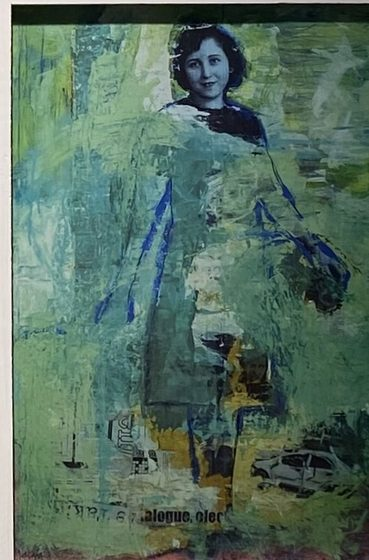
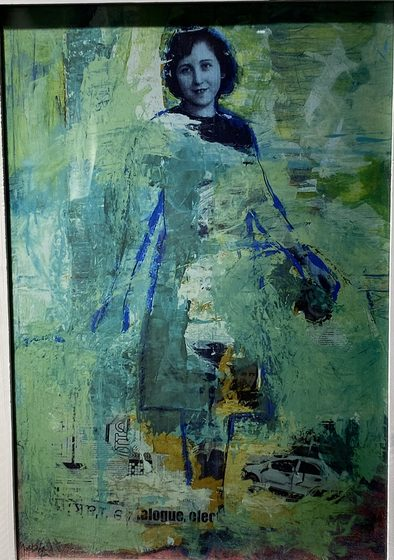
Memory: close-ups of Untitled Hypotheses; opening-night views

diff --git a/assets/works.js b/assets/works.js
@@ -49,9 +49,9 @@ window.WORKS = {
 ["Manar Magdy","Immersed in the depth of memory","50x70","2022","Digital illustration printed on wood","",[["memory--manar-magdy--immersed-in-the-depth-of-memory",1500,2100]]],
 ["Mayar Attia","Untitled","21x29.7","2021","Photograph taken on Olympus camera, Kodak ColorPlus 200","Edition 1/7",[["memory--mayar-attia--untitled-30-0",565,404]]],
 ["Mostafa Hedayat","Memorial spectrums","85x30","2022","Digital collage print","",[["memory--mostafa-hedayat--memorial-spectrums",1762,570]]],
-["Mostafa Hedayat","Untitled Hypotheses","26x37","2022","Digital collage print","One of a series of 3",[["memory--mostafa-hedayat--untitled-hypotheses-1",543,821]]],
-["Mostafa Hedayat","Untitled Hypotheses","26x37","2022","Digital collage print","One of a series of 3",[["memory--mostafa-hedayat--untitled-hypotheses-2",547,806]]],
-["Mostafa Hedayat","Untitled Hypotheses","26x37","2022","Digital collage print","One of a series of 3",[["memory--mostafa-hedayat--untitled-hypotheses-3",535,813]]],
+["Mostafa Hedayat","Untitled Hypotheses","26x37","2022","Digital collage print","One of a series of 3",[["memory--mostafa-hedayat--untitled-hypotheses-1",1300,1850]]],
+["Mostafa Hedayat","Untitled Hypotheses","26x37","2022","Digital collage print","One of a series of 3",[["memory--mostafa-hedayat--untitled-hypotheses-2",1300,1850]]],
+["Mostafa Hedayat","Untitled Hypotheses","26x37","2022","Digital collage print","One of a series of 3",[["memory--mostafa-hedayat--untitled-hypotheses-3",1300,1850]]],
 ["Nashwa Ata","Isolation","30x50","2021","Mixed media on paper","One of a series of 4",[["memory--nashwa-ata--isolaton-33-0",395,502]]],
 ["Nashwa Ata","Isolation","30x50","2021","Mixed media on paper","One of a series of 4",[["memory--nashwa-ata--isolaton-33-1",395,502]]],
 ["Nashwa Ata","Isolation","30x50","2021","Mixed media on paper","One of a series of 4",[["memory--nashwa-ata--isolaton-33-2",384,502]]],
@@ -733,7 +733,7 @@ window.BIOS = {
 
 window.PORTRAITS = {"Abanoub Adel":"abanoub-adel","Abdoul":"abdoul","Abeer Adel":"abeer-adel","Adham Aboudoma":"adham-aboudoma","Afraa Ahmed":"afraa-ahmed","Agnes Michalczyk":"agnes-michalczyk","Ahmed Jamal":"ahmed-jamal","Ahmed Nour":"ahmed-nour","Aisha Nour":"aisha-nour","Alaa Aboelhamd":"alaa-aboelhamd","Ali Esmat Metwaly":"ali-esmat-metwaly","Amani Moussa":"amani-moussa","Amany Isaac":"amany-isaac","Amina Ashour":"amina-ashour","Amira Khalil":"amira-khalil","Amr Qubtan":"amr-qubtan","Asmaa Habib":"asmaa-habib","Asmaa Samy":"asmaa-samy","Aya Elhussieny":"aya-elhussieny","Aya Gamil":"aya-gamil","Aya Salah":"aya-salah","Aya Senousy":"aya-senousy","Basmalah Walie":"basmalah-walie","Berry Raheem":"berry-raheem","Dalia Negm":"dalia-negm","Dina El Karimy":"dina-el-karimy","Doaa ElDemerdash":"doaa-eldemerdash","Ehab Farrag":"ehab-farrag","Eman Hussin":"eman-hussin","Eslam Saif El-Nasr":"eslam-saif-el-nasr","Esraa Hosny":"esraa-hosny","Esraa Mahran":"esraa-mahran","Fady George Awad":"fady-george-awad","Farah Elshebiny":"farah-elshebiny","Farida Mahdy":"farida-mahdy","Fathy Hassan":"fathy-hassan","Gabal":"gabal","Ganna Talaat":"ganna-talaat","Ghada Waleed":"ghada-waleed","Habiba Elgazzar":"habiba-elgazzar","Haidy Ghanem":"haidy-ghanem","Haidy Mohamed":"haidy-mohamed","Hala Abdelhamed":"hala-abdelhamed","Hazem Elshenawy":"hazem-elshenawy","Heba Tarek":"heba-tarek","Hoda Hisham":"hoda-hisham","Hossam AbulEla":"hossam-abulela","Injy Usama Kamal":"injy-usama-kamal","Joseph El Duwairy":"joseph-el-duwairy","Kamila Bassioni":"kamila-bassioni","Kenzy Turky":"kenzy-turky","Lana Gul":"lana-gul","Lina Eid":"lina-eid","Magy George":"magy-george","Maha Abdelghani":"maha-abdelghani","Mahitab Elshafie":"mahitab-elshafie","Mahmoud El Masry":"mahmoud-el-masry","Mahmoud Marey":"mahmoud-marey","Mahmoud Sami":"mahmoud-sami","Mai Manieh":"mai-manieh","Manar Magdy":"manar-magdy","Mariam Abdelhay":"mariam-abdelhay","Marwan Alaaeldin":"marwan-alaaeldin","Mayar Attia":"mayar-attia","MennaAllah Raafat":"mennaallah-raafat","Miriam Hanna":"miriam-hanna","Mirna Isac":"mirna-isac","Moamen Ghorab":"moamen-ghorab","Mohamed Abdelrahman":"mohamed-abdelrahman","Mohamed Almowafy":"mohamed-almowafy","Mohanad Youssef":"mohanad-youssef","Moheeb":"moheeb","Mostafa Hedayat":"mostafa-hedayat","Muhammed Sawan":"muhammed-sawan","Nada Darwish":"nada-darwish","Nada Hassanien":"nada-hassanien","Nada Nada":"nada-nada","Nagat Farouk":"nagat-farouk","Nashwa Ata":"nashwa-ata","Nayera Ahmed Fathy":"nayera-ahmed-fathy","Nehal Nagaty":"nehal-nagaty","Nouran Ibrahim":"nouran-ibrahim","Nourhan Ebrahim":"nourhan-ebrahim","Nourhan Galal":"nourhan-galal","Omar Hegazy":"omar-hegazy","Omar Senada":"omar-senada","Omnia Mohamed":"omnia-mohamed","Rabab Shaker":"rabab-shaker","Rana Hemdan":"rana-hemdan","Rana Khalil":"rana-khalil","Rana Samir":"rana-samir","Randa Magdi":"randa-magdi","Rania Abu Elazm":"rania-abu-elazm","Rania Gad":"rania-gad","Razaz Elsadig":"razaz-elsadig","Reem Ahmed":"reem-ahmed","Reem Elhefnawy":"reem-elhefnawy","Rowan Shalaby":"rowan-shalaby","Rym Magdi":"rym-magdi","Salma Mohamed":"salma-mohamed","Samah El Shamy":"samah-el-shamy","Sara Hegazy":"sara-hegazy","Sara Salem":"sara-salem","Sarah Kareem":"sarah-kareem","Sarah Kheir":"sarah-kheir","Soliman Badawy":"soliman-badawy","Suzan Elwakil":"suzan-elwakil","Taher Abdelazeem":"taher-abdelazeem","Tasneem Bahr":"tasneem-bahr","Wessam Wafik":"wessam-wafik","Yahya Khalil":"yahya-khalil","Yarrah Yasser":"yarrah-yasser","Yasmine Gamal":"yasmine-gamal","Yasmine Mazen":"yasmine-mazen","Yomna Dessouky":"yomna-dessouky","Youssef Ashraf Ali":"youssef-ashraf-ali"};
 
-window.VIEWS = {"memory":[["memory-afraa-desk",1600,1600]],"unplug":[["unplug-dreams",551,417],["unplug-01",1600,1122],["unplug-02",1600,1142],["unplug-04",1600,900],["unplug-08",1600,900],["unplug-13",1600,900],["unplug-14",900,1600],["unplug-22",900,1600],["unplug-26",900,1600],["unplug-30",900,1600],["unplug-35",1600,900]],"virtual-veins":[["virtual-veins-08",1600,900],["virtual-veins-10",1600,900],["virtual-veins-13",1600,900],["virtual-veins-16",1600,900],["virtual-veins-19",1600,900],["virtual-veins-21",1600,900],["virtual-veins-24",1600,900],["virtual-veins-26",1600,900],["virtual-veins-30",1600,900],["virtual-veins-42",1600,900]],"upcycled-narratives-ii":[["upcycled-narratives-ii-02",900,1600],["upcycled-narratives-ii-04",900,1600],["upcycled-narratives-ii-05",900,1600],["upcycled-narratives-ii-08",1600,900],["upcycled-narratives-ii-10",900,1600],["upcycled-narratives-ii-12",900,1600],["upcycled-narratives-ii-16",1600,900],["upcycled-narratives-ii-18",900,1600],["upcycled-narratives-ii-20",900,1600],["upcycled-narratives-ii-24",900,1600],["upcycled-narratives-ii-interactive",900,1600]],"an-inner-voice":[["an-inner-voice-02",1439,810],["an-inner-voice-03",1439,810],["an-inner-voice-06",1080,1080],["an-inner-voice-07",1080,1080],["an-inner-voice-11",1080,608],["an-inner-voice-15",1080,1080],["an-inner-voice-16",1080,608],["an-inner-voice-17",1080,608],["an-inner-voice-20",1080,608],["an-inner-voice-21",1080,608],["an-inner-voice-22",1439,810]],"ciad-4":[["ciad-4-01",780,1052],["ciad-4-02",1052,780],["ciad-4-03",1052,780],["ciad-4-05",1052,780],["ciad-4-07",720,1280]]};
+window.VIEWS = {"memory":[["memory-afraa-desk",1600,1600],["memory-opening-1",1600,1066],["memory-opening-2",1066,1600],["memory-opening-3",1600,1066],["memory-opening-4",1600,1066],["memory-opening-5",1600,1299]],"unplug":[["unplug-dreams",551,417],["unplug-01",1600,1122],["unplug-02",1600,1142],["unplug-04",1600,900],["unplug-08",1600,900],["unplug-13",1600,900],["unplug-14",900,1600],["unplug-22",900,1600],["unplug-26",900,1600],["unplug-30",900,1600],["unplug-35",1600,900]],"virtual-veins":[["virtual-veins-08",1600,900],["virtual-veins-10",1600,900],["virtual-veins-13",1600,900],["virtual-veins-16",1600,900],["virtual-veins-19",1600,900],["virtual-veins-21",1600,900],["virtual-veins-24",1600,900],["virtual-veins-26",1600,900],["virtual-veins-30",1600,900],["virtual-veins-42",1600,900]],"upcycled-narratives-ii":[["upcycled-narratives-ii-02",900,1600],["upcycled-narratives-ii-04",900,1600],["upcycled-narratives-ii-05",900,1600],["upcycled-narratives-ii-08",1600,900],["upcycled-narratives-ii-10",900,1600],["upcycled-narratives-ii-12",900,1600],["upcycled-narratives-ii-16",1600,900],["upcycled-narratives-ii-18",900,1600],["upcycled-narratives-ii-20",900,1600],["upcycled-narratives-ii-24",900,1600],["upcycled-narratives-ii-interactive",900,1600]],"an-inner-voice":[["an-inner-voice-02",1439,810],["an-inner-voice-03",1439,810],["an-inner-voice-06",1080,1080],["an-inner-voice-07",1080,1080],["an-inner-voice-11",1080,608],["an-inner-voice-15",1080,1080],["an-inner-voice-16",1080,608],["an-inner-voice-17",1080,608],["an-inner-voice-20",1080,608],["an-inner-voice-21",1080,608],["an-inner-voice-22",1439,810]],"ciad-4":[["ciad-4-01",780,1052],["ciad-4-02",1052,780],["ciad-4-03",1052,780],["ciad-4-05",1052,780],["ciad-4-07",720,1280]]};
 
 /* Photos of an artist's works in a show when individual pieces can't be told apart (from the gallery's Instagram posts). */
 window.SETS = {"an-inner-voice":{"Yahya Khalil":[["an-inner-voice--yahya-khalil-00",1080,1350],["an-inner-voice--yahya-khalil-01",1080,1350],["an-inner-voice--yahya-khalil-02",1080,1350],["an-inner-voice--yahya-khalil-03",1080,1350],["an-inner-voice--yahya-khalil-04",1080,1350],["an-inner-voice--yahya-khalil-05",1080,1350],["an-inner-voice--yahya-khalil-06",1080,1350]],"Asmaa Habib":[["an-inner-voice--asmaa-habib-07",720,406],["an-inner-voice--asmaa-habib-08",1080,608],["an-inner-voice--asmaa-habib-09",1080,608]],"Adham Aboudoma":[["an-inner-voice--adham-aboudoma-10",1080,1080],["an-inner-voice--adham-aboudoma-11",1080,1080],["an-inner-voice--adham-aboudoma-12",1080,1080],["an-inner-voice--adham-aboudoma-13",1080,1080],["an-inner-voice--adham-aboudoma-14",1080,1080],["an-inner-voice--adham-aboudoma-16",1080,1080]],"Mariam Abdelhay":[["an-inner-voice--mariam-abdelhay-19",1400,788],["an-inner-voice--mariam-abdelhay-23",1400,788]],"Mohamed Almowafy":[["an-inner-voice--mohamed-almowafy-25",720,406],["an-inner-voice--mohamed-almowafy-26",1400,788]],"Aya Salah":[["an-inner-voice--aya-salah-27",1400,1400],["an-inner-voice--aya-salah-28",1400,1400],["an-inner-voice--aya-salah-29",1400,1400],["an-inner-voice--aya-salah-31",1400,1400],["an-inner-voice--aya-salah-32",1400,1400],["an-inner-voice--aya-salah-33",1400,1400],["an-inner-voice--aya-salah-34",1400,1400]]},"upcycled-narratives-ii":{"Sara Hady":[["upcycled-narratives-ii--sara-hady-eman-ellaithy-35",1080,1350],["upcycled-narratives-ii--sara-hady-eman-ellaithy-37",1080,1350],["upcycled-narratives-ii--sara-hady-eman-ellaithy-38",1080,1350]],"Eman Ellaithy":[["upcycled-narratives-ii--sara-hady-eman-ellaithy-35",1080,1350],["upcycled-narratives-ii--sara-hady-eman-ellaithy-37",1080,1350],["upcycled-narratives-ii--sara-hady-eman-ellaithy-38",1080,1350]]}};
